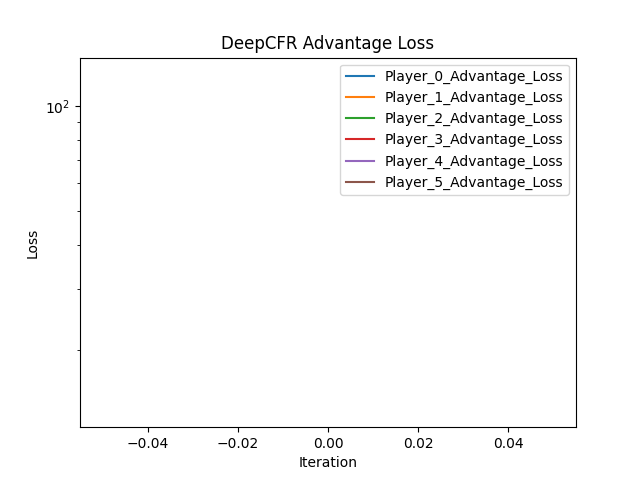
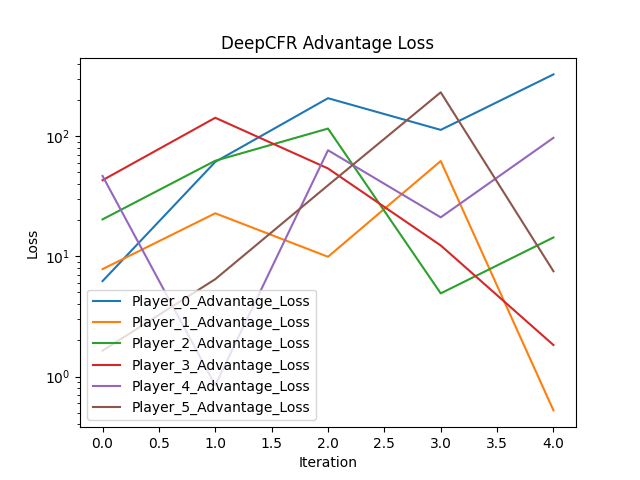
fix:model change

diff --git a/client/coyote_game.py b/client/coyote_game.py
@@ -44,7 +44,7 @@ _GAME_INFO = pyspiel.GameInfo(
     max_chance_outcomes=15,  # 山札のカードの種類数
     num_players=_NUM_PLAYERS,
     min_utility=-1.0,
-    max_utility=5.0,
+    max_utility=1.0,
     utility_sum=0.0,
     max_game_length=100,
 )
@@ -173,6 +173,7 @@ class CoyoteState(pyspiel.State):
                 self._cards[i] = other_cards[i-1]
             else:
                 self._cards[i] = 0
+        self._expecting_draw = False  # チャンスノードに移行するかどうか
 
     def calc_card_sum(self, cards):
         card_sum = 0 #初期化
@@ -294,7 +295,8 @@ class CoyoteState(pyspiel.State):
     def returns(self):
         survive = sum(self._player_active)
         points = _NUM_PLAYERS - survive
-        return [points/survive if self._player_active[i] else -1 for i in range(_NUM_PLAYERS)]
+        reward_ls = np.array([points/survive if self._player_active[i] else -1 for i in range(_NUM_PLAYERS)])
+        return reward_ls / max(reward_ls)  # 正規化
     
     def information_state_string(self, player=None):
         if player is None:
@@ -388,14 +390,14 @@ class CoyoteState(pyspiel.State):
         for i in range(_NUM_PLAYERS):
             if self._cards[i] is None:
                 continue
-            elif self._player_active[i] and i != player and self._cards[i] < 100:
+            elif (self._player_active[i]) and (i != player) and (self._cards[i] < 100):
                 current_estimate += self._cards[i]
                 if self._cards[i] > max_card:
                     max_card = self._cards[i]
-            elif self._player_active[i] and i != player and self._cards[i] == 100:
+            elif self._player_active[i] and (i != player) and (self._cards[i] == 100):
                 current_estimate += 0
                 double_flag = True
-            elif self._player_active[i] and i != player and self._cards[i] == 102:
+            elif self._player_active[i] and (i != player) and (self._cards[i] == 102):
                 current_estimate += 0
                 max_flag = True
         
@@ -462,14 +464,14 @@ if __name__ == "__main__":
         solver = deep_cfr.DeepCFRSolver(
             game=game,
             session=sess,
-            policy_network_layers=[256, 256],
-            advantage_network_layers=[256, 256],
-            num_iterations=1,
-            num_traversals=10,
-            learning_rate=1e-3,
-            batch_size_advantage=32,
-            batch_size_strategy=32,
-            memory_capacity=10000
+            policy_network_layers=[64, 64],
+            advantage_network_layers=[64, 64],
+            num_iterations=5,
+            num_traversals=100,
+            learning_rate=1e-4,
+            batch_size_advantage=128,
+            batch_size_strategy=128,
+            memory_capacity=1e6
         )
 
         # 変数初期化

diff --git a/client/Takanori_Kotama.py b/client/Takanori_Kotama.py
@@ -27,8 +27,8 @@ class CFRClient(Client):
         self.solver = deep_cfr.DeepCFRSolver(
             game=self.game,
             session=self.session,
-            policy_network_layers=[16, 16],
-            advantage_network_layers=[16, 16],
+            policy_network_layers=[64, 64],
+            advantage_network_layers=[64, 64],
             num_iterations=1,
             num_traversals=10,
             learning_rate=1e-4,
@@ -147,7 +147,7 @@ class StatClient(Client):
 
         if 101 in self.all_card:
             self.all_card.remove(101)
-            self.append(0)
+            self.all_card.append(0)
 
         others_card = [info["card_info"] for info in others_info]
         
@@ -162,11 +162,6 @@ class StatClient(Client):
             others_card.remove(103)
         if 101 in others_card:
             others_card.remove(101)
-
-        
-
-
-        
 
 
         return random.choice(actions)
